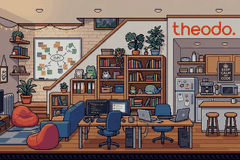
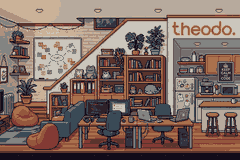
Fix VRAM crash: combat backdrop as 16-colour tiles (526 unique) instead of 256-colour

diff --git a/tools/combat_bg.py b/tools/combat_bg.py
@@ -1,6 +1,6 @@
 """Convert Combat-background.webp into a GBA-ready 240x160 background (gfx/combat_bg.png).
 
-Imported as a 256-colour background, with its own palette swapped in during combat.
+Imported as a 16-colour background, with its own palette swapped in during combat.
 Run from the repo root:  python3 tools/combat_bg.py
 """
 from pathlib import Path
@@ -17,9 +17,9 @@ img = src.crop((w - cw, 0, w, h)).resize((240, 160), Image.LANCZOS)
 img = ImageEnhance.Brightness(img).enhance(0.85)
 img = ImageEnhance.Contrast(img).enhance(1.1)
 
-# 256-colour background: one global palette. Keep < 240 colours so palette
-# bank 15 stays free for the UI (bar / panels).
-out = img.quantize(200, method=Image.Quantize.MEDIANCUT, dither=Image.Dither.NONE).convert("RGB")
+# One 15-colour palette (16-colour tiles): 256-colour tiles don't fit in VRAM
+# alongside the map, and agb can't pack per-tile palettes for this image.
+out = img.quantize(15, method=Image.Quantize.MEDIANCUT, dither=Image.Dither.NONE).convert("RGB")
 out.save(ROOT / "gfx/combat_bg.png")
 out.resize((960, 640), Image.NEAREST).save(ROOT / "target/combat_bg_preview.png")
 print("ok", len(set(out.getdata())), "colours")

diff --git a/src/main.rs b/src/main.rs
@@ -27,7 +27,7 @@ use wfc::{Map, Rng, Terrain};
 
 include_background_gfx!(mod bg, tiles => "gfx/tiles.png");
 // Separate palettes: loaded only while the map is hidden (combat, upgrade menu).
-include_background_gfx!(mod combatbg, combat => 256 deduplicate "gfx/combat_bg.png");
+include_background_gfx!(mod combatbg, combat => deduplicate "gfx/combat_bg.png");
 include_aseprite!(
     mod sprites,
     "gfx/adam_down.gif",
@@ -510,11 +510,11 @@ fn main(mut gba: agb::Gba) -> ! {
         RegularBackgroundSize::Background64x64,
         TileFormat::FourBpp,
     );
-    // Combat backdrop (256 colours).
+    // Combat backdrop.
     let mut arena = RegularBackground::new(
         Priority::P3,
         RegularBackgroundSize::Background32x32,
-        TileFormat::EightBpp,
+        TileFormat::FourBpp,
     );
     draw_combat_bg(&mut arena);
     let mut panel = new_panel();
